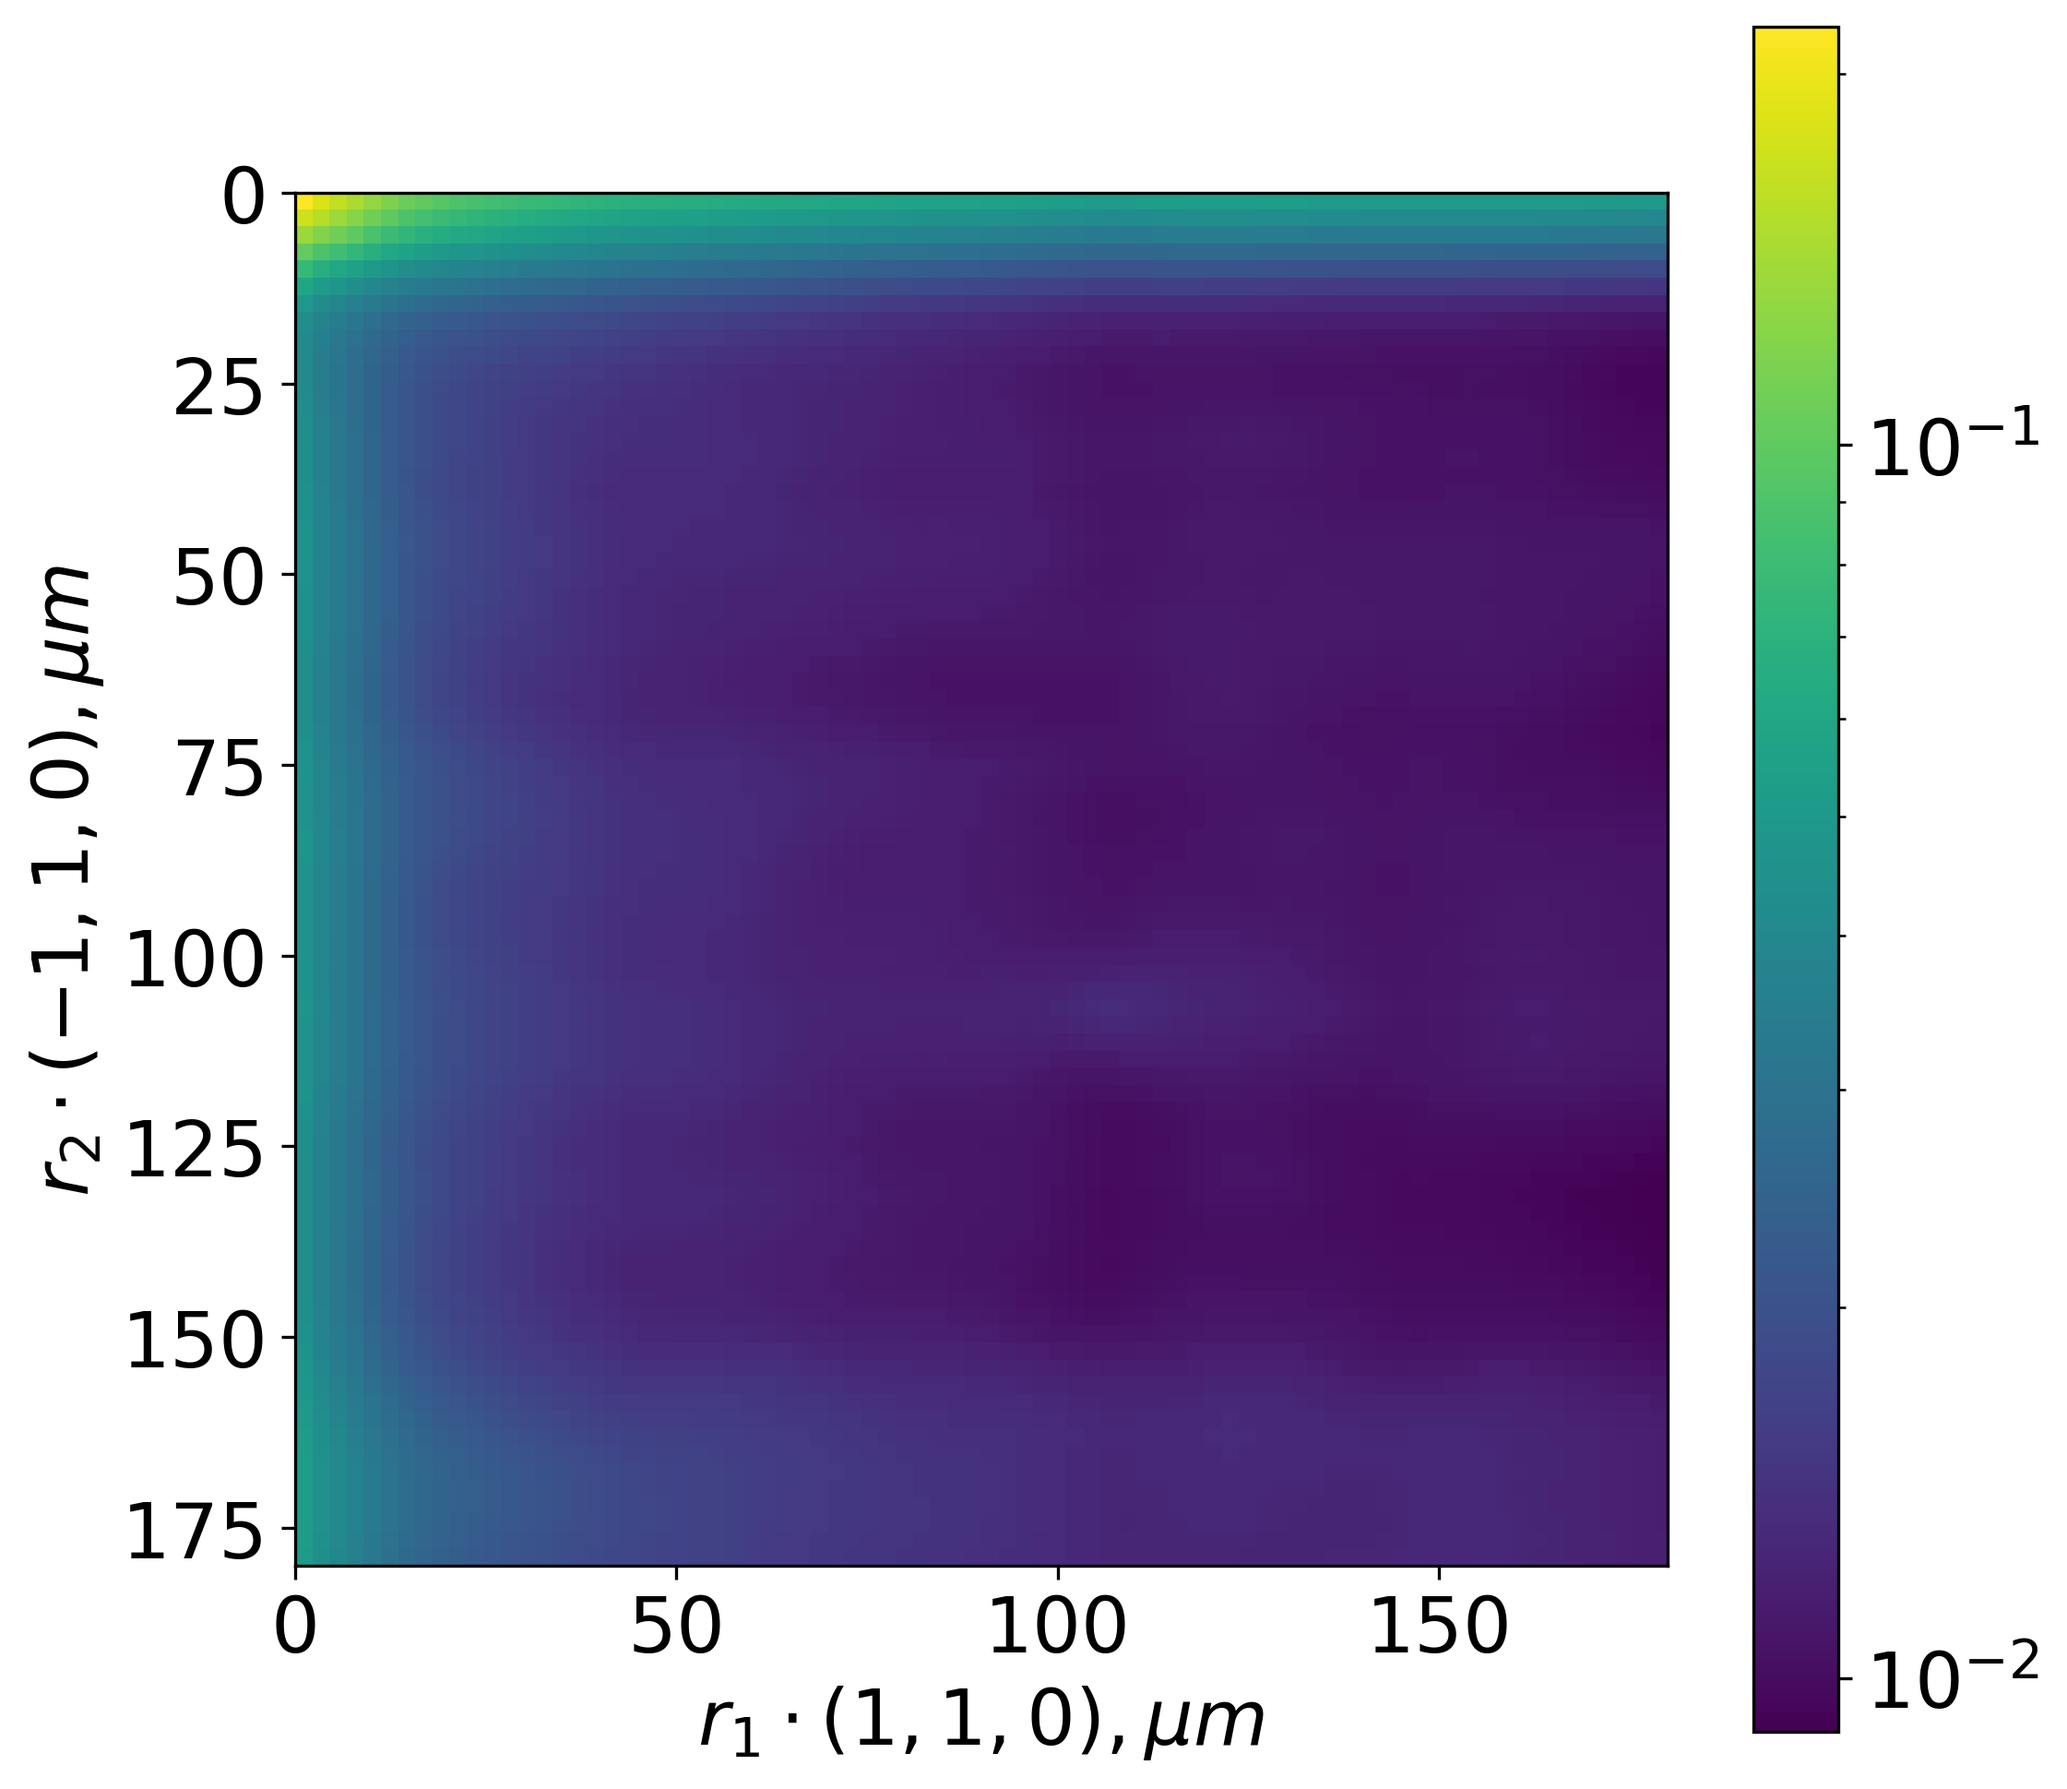
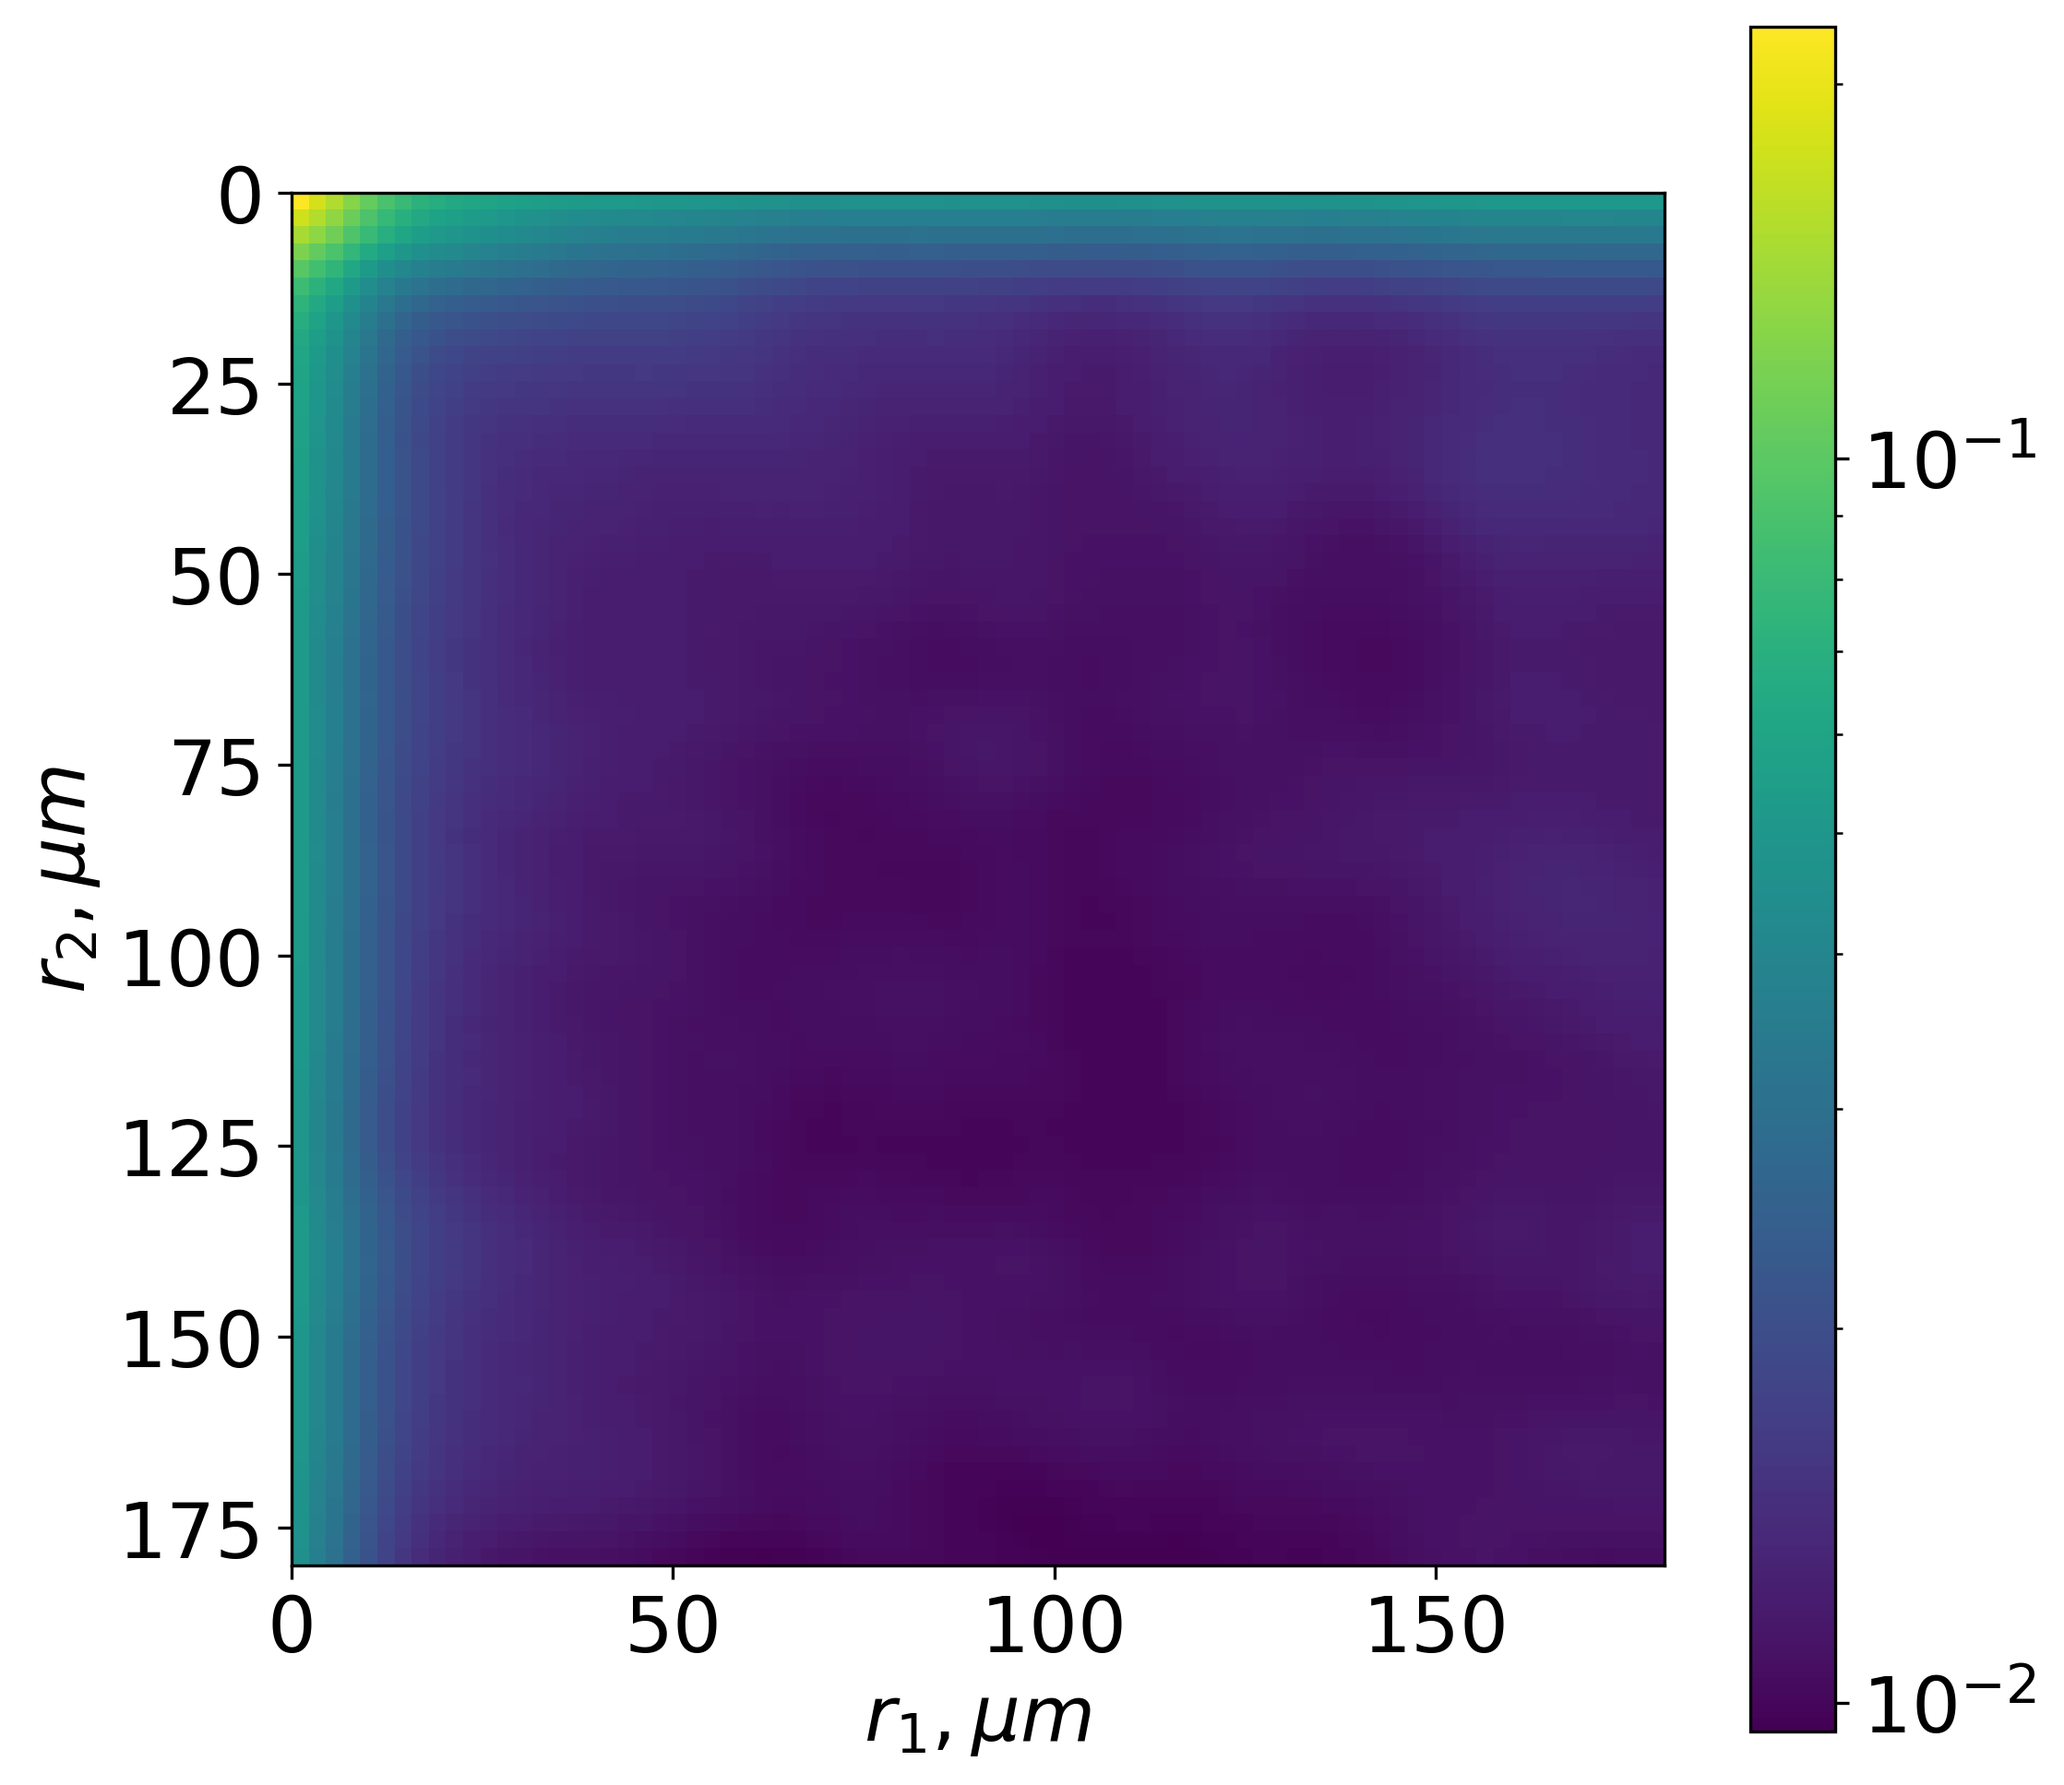
More images

diff --git a/paper.tex b/paper.tex
@@ -606,39 +606,6 @@ The comparison of our algorithm against theory is shown on
 \end{figure*}
 
 \subsection{Applications to material images}
-In this section we compute correlation functions for 2- and 3-dimensional real
-samples. Table \ref{tab:summary} contains information about these samples. Note
-that we compute surface correlation functions only for those samples for which
-the criterion $C_{0.5} > 0.97$ holds (the two sandstones and the \textcolor{red}{shale}). Images
-of the samples are on \cref{fig:samples}. On plots of correlation functions for
-isotropic samples we provide a family of curves with the first argument of the
-correlation function being fixed. For anisotropic samples we provide heatmaps of
-correlation functions where anisotropy can be easily observed.
-
-Correlation functions for the XCT sample of a sandstone are on
-\cref{fig:sample-sandstone-xct-cf}. The plot of $S_3$ function allows us to
-estimate porosity of the sample to be $\sim 0.19$ (note that the curve with
-$r_1 = 0$ is actually $S_2$ function). The two-point correlation function
-reaches plateau at $r_2 \approx 60 \mu m$ which means that two events
-of finding two points in the void phase are independent if the points are
-farther than $60 \mu m$ from each other. We see that the sample is isotropic
-($S_3(0, 56.25) \approx S_3(56.25, 0)$). From similarity of the $C_3$ and $S_3$
-functions it can be stated that the pore phase in this sample forms one big
-interconnected pore system.
-
-Correlation functions for the SEM sample (the sandstone) are on
-\cref{fig:sample-sandstone-cf}. Porosity of the sample is $\sim 0.3$ as follows
-from the plot of $S_3$ function at $r_1 = 0$. The function $S_3(0, r_2)$ reaches
-plateau at $r_2 \approx 20\ \mu m$. The sample is highly anisotropic (elongated
-along the ordinate). The samples has clusters which are $\sim 45\ \mu m$ in
-diameter.
-
-Heatmaps of $S_3$ for the two highly anisotropic samples can be seen on
-\cref{fig:heatmaps}. Anisotropy of the both samples can be seen as a slower
-decay of $S_3$ in one of the directions. Additionally, it can be observed that
-elongated clusters of the void phase in the sample of soil are parallel to each
-other and have a regular spacing of about $50 \mu m$.
-
 \begin{table*}[!htp]
   \centering
   \begin{tabular}{|c|c|c|c|c|}
@@ -654,7 +621,14 @@ other and have a regular spacing of about $50 \mu m$.
   \caption{Summary of samples used for calculation of correlation functions.}
   \label{tab:summary}
 \end{table*}
-
+In this section we compute correlation functions for 2- and 3-dimensional real
+samples. Table \ref{tab:summary} contains information about these samples. Note
+that we compute surface correlation functions only for those samples for which
+the criterion $C_{0.5} > 0.97$ holds (the two sandstones and the \textcolor{red}{shale}). Images
+of the samples are on \cref{fig:samples}. On plots of correlation functions for
+isotropic samples we provide a family of curves with the first argument of the
+correlation function being fixed. For anisotropic samples we provide heatmaps of
+correlation functions where anisotropy can be easily observed.
 \begin{figure*}[tp]
   \centering
   \subfigure[Sanstone XCT]{
@@ -676,6 +650,32 @@ other and have a regular spacing of about $50 \mu m$.
     functions.}
   \label{fig:samples}
 \end{figure*}
+
+Correlation functions for the XCT sample of a sandstone are on
+\cref{fig:sample-sandstone-xct-cf}. The plot of $S_3$ function allows us to
+estimate porosity of the sample to be $\sim 0.19$ (note that the curve with
+$r_1 = 0$ is actually $S_2$ function). The two-point correlation function
+reaches plateau at $r_2 \approx 60 \mu m$ which means that two events
+of finding two points in the void phase are independent if the points are
+farther than $60 \mu m$ from each other. We see that the sample is isotropic
+($S_3(0, 56.25) \approx S_3(56.25, 0)$). From similarity of the $C_3$ and $S_3$
+functions it can be stated that the pore phase in this sample forms one big
+interconnected pore system.
+
+Correlation functions for the SEM sample (the sandstone) are on
+\cref{fig:sample-sandstone-cf}. Porosity of the sample is $\sim 0.3$ as follows
+from the plot of $S_3$ function at $r_1 = 0$. The function $S_3(0, r_2)$ reaches
+plateau at $r_2 \approx 20\ \mu m$. The sample is highly anisotropic (elongated
+along the ordinate). The samples has clusters which are $\sim 45\ \mu m$ in
+diameter.
+
+The anisotropic samples (the soil and the shale) were preliminarily rotated with
+periodic boundary conditions to align elongated pores with coordinate axes. The
+result of rotation can be seen on \cref{fig:samples-rot}. Heatmaps of $S_3$
+function for these samples can be seen on \cref{fig:heatmaps}. It can be
+observed that elongated clusters of the void phase in the sample of soil form a
+structure which resembles a regular grid with spacing of about $60 \mu m$. The
+sample of shale shows less regular yet still anisotropic structure.
 
 \begin{figure*}[tp]
   \centering
@@ -709,18 +709,27 @@ other and have a regular spacing of about $50 \mu m$.
 
 \begin{figure*}[tp]
   \centering
-  \subfigure[Shale]{
-    \includegraphics[width=0.4\linewidth]{images/shale-s3.png}
-    \label{fig:shale-s3}}
+  \subfigure[Soil]{
+    \includegraphics[width=0.4\linewidth]{images/soil-rot.png}}
   \hfill
+  \subfigure[Shale]{
+    \includegraphics[width=0.4\linewidth]{images/shale-rot.png}}
+  \caption[]{Rotations of anisotropic samples with pores aligned with the
+    coordinate axes.}
+  \label{fig:samples-rot}
+\end{figure*}
+
+\begin{figure*}[tp]
+  \centering
   \subfigure[Soil]{
     \includegraphics[width=0.4\linewidth]{images/soil-s3.png}
     \label{fig:soil-s3}}
   \hfill
+  \subfigure[Shale]{
+    \includegraphics[width=0.4\linewidth]{images/shale-s3.png}
+    \label{fig:shale-s3}}
   \caption[]{Heatmaps of $S_3$ function for highly anisotropic samples of shale
-    and soil. $S_3$ function was clamped to the range $[0, 0.1]$ to make
-    anisotropy more visible. It can be observed that the samples have
-    cavities elongated along the vector $(1, 1, 0)$.}
+    and soil.}
   \label{fig:heatmaps}
 \end{figure*}
 
